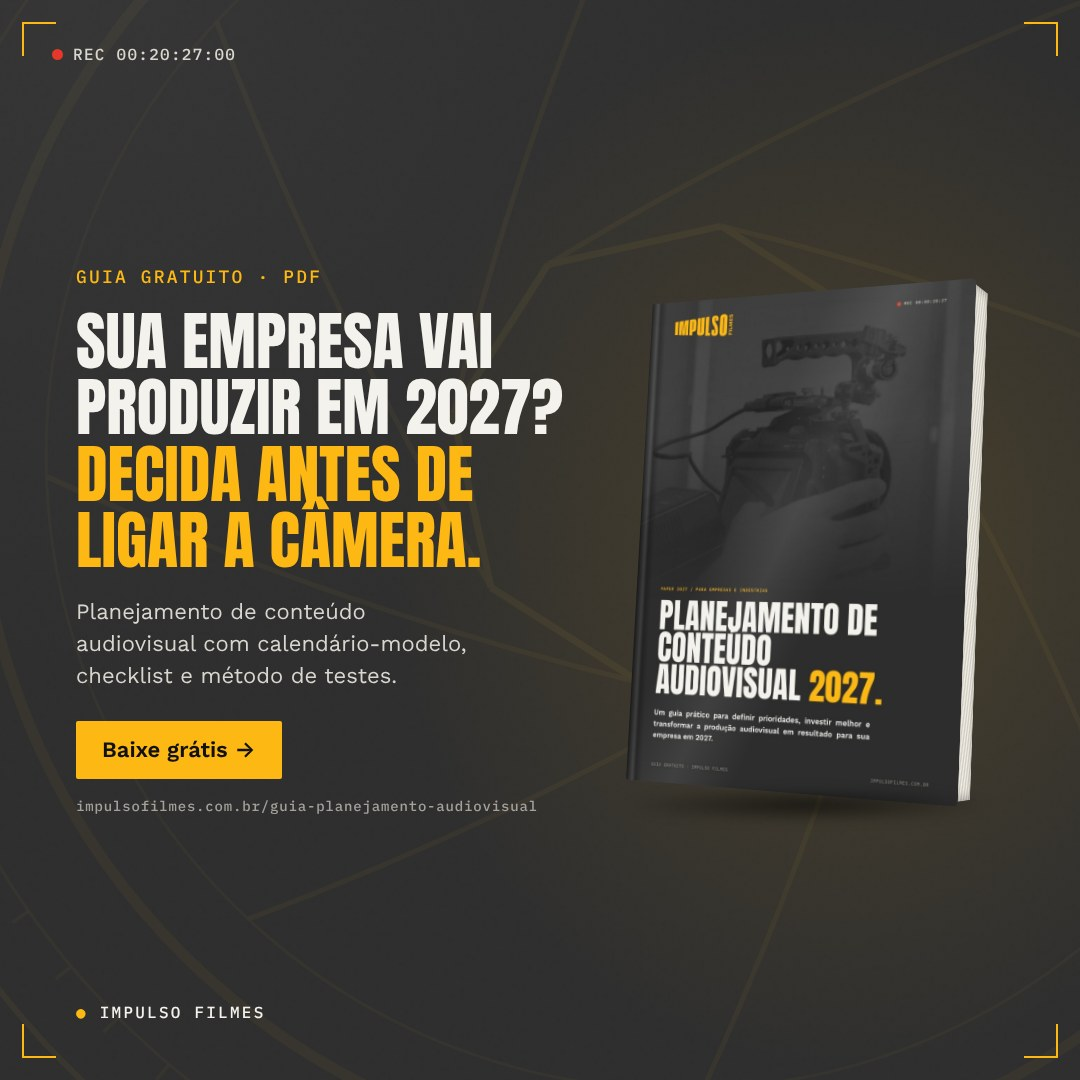
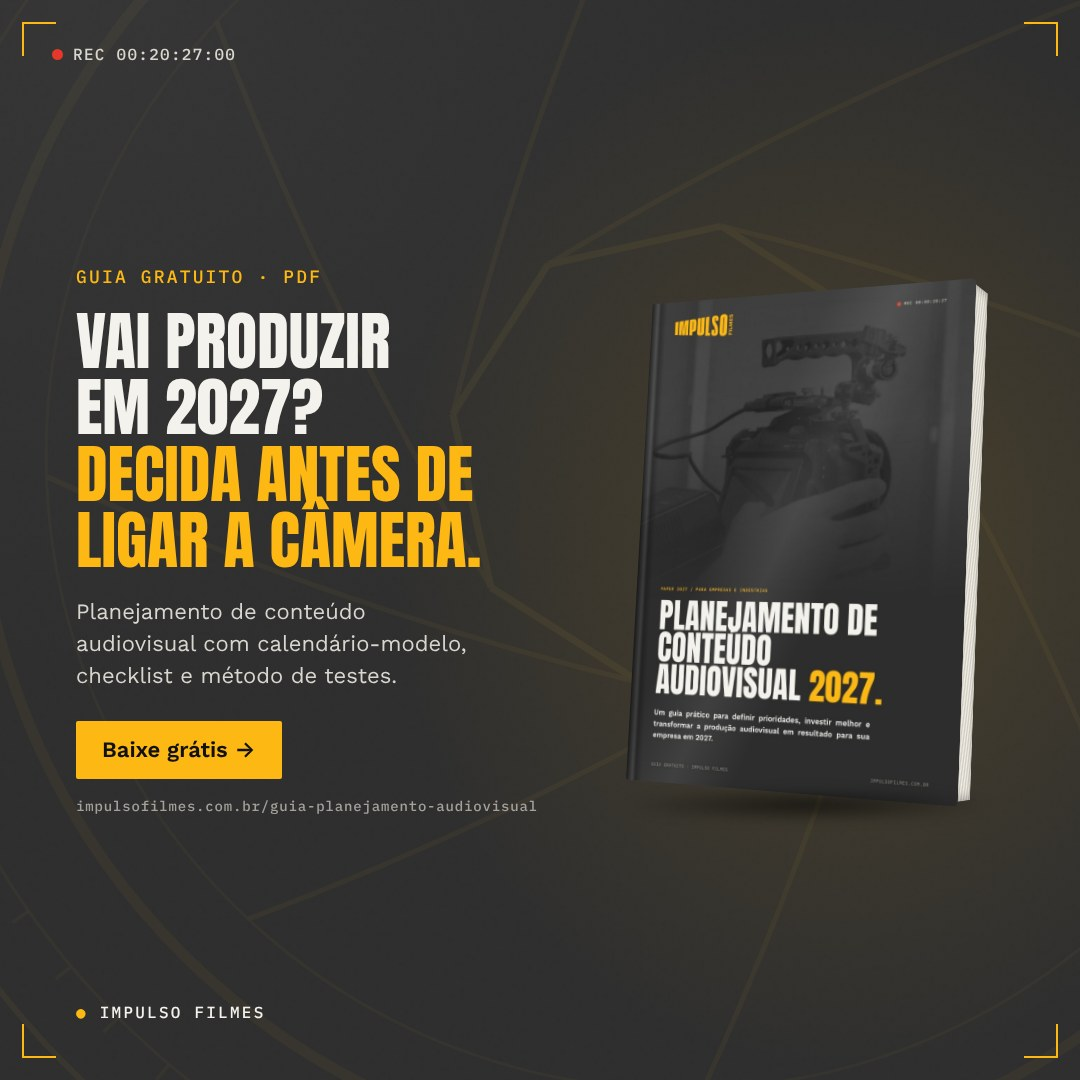
Título "Vai produzir em 2027?" na página, no compartilhamento e nas imagens de divulgação
Claude-Session: https://claude.ai/code/session_01SGBA6gHqWrHQdPf3NpZQUW

Changed region(s): [[0.0611, 0.275, 0.5194, 0.4278]]

diff --git a/index.html b/index.html
@@ -13,7 +13,7 @@
 <meta property="og:type" content="website">
 <meta property="og:site_name" content="Impulso Filmes">
 <meta property="og:url" content="https://www.impulsofilmes.com.br/guia-planejamento-audiovisual/">
-<meta property="og:title" content="Sua empresa vai produzir em 2027? Guia gratuito de planejamento audiovisual">
+<meta property="og:title" content="Vai produzir em 2027? Guia gratuito de planejamento audiovisual">
 <meta property="og:description" content="Monte o planejamento de conteúdo audiovisual da sua empresa com calendário-modelo, checklist e método de testes. PDF gratuito da Impulso Filmes.">
 <meta property="og:image" content="https://www.impulsofilmes.com.br/guia-planejamento-audiovisual/compartilhamento.jpg">
 <meta property="og:image:width" content="1200">
@@ -27,8 +27,8 @@
 <link rel="preconnect" href="https://fonts.googleapis.com">
 <link rel="preconnect" href="https://fonts.gstatic.com" crossorigin>
 <link href="https://fonts.googleapis.com/css2?family=Anton&family=IBM+Plex+Mono:wght@400;500&family=Work+Sans:ital,wght@0,400;0,500;0,600;1,400&display=swap" rel="stylesheet">
-<link rel="stylesheet" href="base.css?v=10210223">
-<link rel="stylesheet" href="lp.css?v=10210223">
+<link rel="stylesheet" href="base.css?v=10210237">
+<link rel="stylesheet" href="lp.css?v=10210237">
 <script type="application/ld+json">
 {
   "@context": "https://schema.org",
@@ -87,7 +87,7 @@
 
   <div class="hero-inner">
     <div class="hero-copy">
-      <h1><span class="eyebrow">Guia planejamento audiovisual 2027</span> Sua empresa vai produzir em 2027? <em>Decida antes de ligar a câmera.</em></h1>
+      <h1><span class="eyebrow">Guia planejamento audiovisual 2027</span> Vai produzir em 2027? <em>Decida antes de ligar a câmera.</em></h1>
       <p class="lead">Baixe o guia gratuito da Impulso Filmes e aprenda a montar um planejamento de conteúdo audiovisual alinhado aos objetivos do seu negócio, com calendário-modelo, checklist e método de testes.</p>
       <div class="actions">
         <a class="btn solid" href="#guia">Quero receber o guia</a>
@@ -367,7 +367,7 @@
 
 <div class="cursor" aria-hidden="true"></div><div class="dot" aria-hidden="true"></div>
 
-<script src="config.js?v=10210223"></script>
-<script src="lp.js?v=10210223"></script>
+<script src="config.js?v=10210237"></script>
+<script src="lp.js?v=10210237"></script>
 </body>
 </html>

diff --git a/obrigado.html b/obrigado.html
@@ -9,8 +9,8 @@
 <link rel="preconnect" href="https://fonts.googleapis.com">
 <link rel="preconnect" href="https://fonts.gstatic.com" crossorigin>
 <link href="https://fonts.googleapis.com/css2?family=Anton&family=IBM+Plex+Mono:wght@400;500&family=Work+Sans:ital,wght@0,400;0,500;0,600;1,400&display=swap" rel="stylesheet">
-<link rel="stylesheet" href="base.css?v=10210223">
-<link rel="stylesheet" href="lp.css?v=10210223">
+<link rel="stylesheet" href="base.css?v=10210237">
+<link rel="stylesheet" href="lp.css?v=10210237">
 </head>
 <body class="thanks-page">
 
@@ -73,7 +73,7 @@
 
 <div class="cursor" aria-hidden="true"></div><div class="dot" aria-hidden="true"></div>
 
-<script src="config.js?v=10210223"></script>
-<script src="lp.js?v=10210223"></script>
+<script src="config.js?v=10210237"></script>
+<script src="lp.js?v=10210237"></script>
 </body>
 </html>

diff --git a/divulgacao/arte.html b/divulgacao/arte.html
@@ -77,7 +77,7 @@
   <p class="recline"><i></i>REC 00:20:27:00</p>
   <div class="txt">
     <p class="eyebrow">Guia gratuito · PDF</p>
-    <h1>Sua empresa vai produzir em 2027? <em>Decida antes de ligar a câmera.</em></h1>
+    <h1>Vai produzir em 2027? <em>Decida antes de ligar a câmera.</em></h1>
     <p class="sub">Planejamento de conteúdo audiovisual com calendário-modelo, checklist e método de testes.</p>
     <span class="chip">Baixe grátis →</span>
     <p class="url">impulsofilmes.com.br/guia-planejamento-audiovisual</p>
